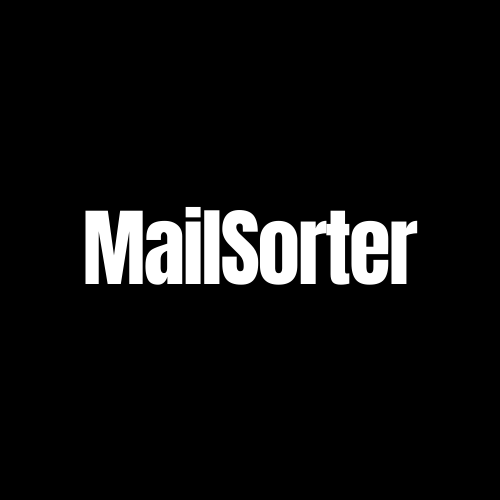
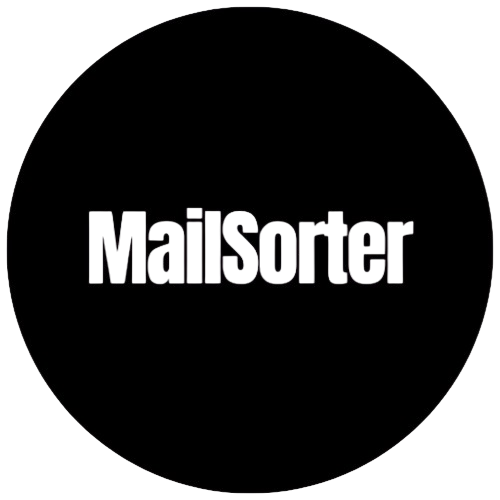
newfavicon and error 404

Changed region(s): [[0.0, 0.0, 1.0, 1.0], [0.15, 0.42, 0.84, 0.57]]

diff --git a/mailsorter/src/app/not-found.tsx b/mailsorter/src/app/not-found.tsx
@@ -1,0 +1,38 @@
+// app/not-found.tsx
+'use client'
+
+import Link from 'next/link'
+import { Button } from "../app/components/ui/button"
+import { Home, AlertCircle } from "lucide-react"
+
+export default function NotFound() {
+  return (
+    <main className="min-h-screen flex items-center justify-center bg-background">
+      <div className="container max-w-3xl mx-auto px-4 py-12 text-center">
+        <div className="space-y-8">
+          <AlertCircle className="h-16 w-16 mx-auto text-primary animate-bounce" />
+          
+          <h1 className="text-5xl font-bold text-foreground">
+            404 - Page Not Found
+          </h1>
+          
+          <p className="text-xl text-muted-foreground">
+            Oops! The page you&apos;re looking for seems to have disappeared into the digital void.
+          </p>
+
+          <div className="flex flex-col sm:flex-row gap-4 justify-center pt-8">
+            <Button 
+              className="gap-2 hover:scale-105 transition-transform"
+              asChild
+            >
+              <Link href="/">
+                <Home className="h-4 w-4" />
+                Back to Home
+              </Link>
+            </Button>
+          </div>
+        </div>
+      </div>
+    </main>
+  )
+}
